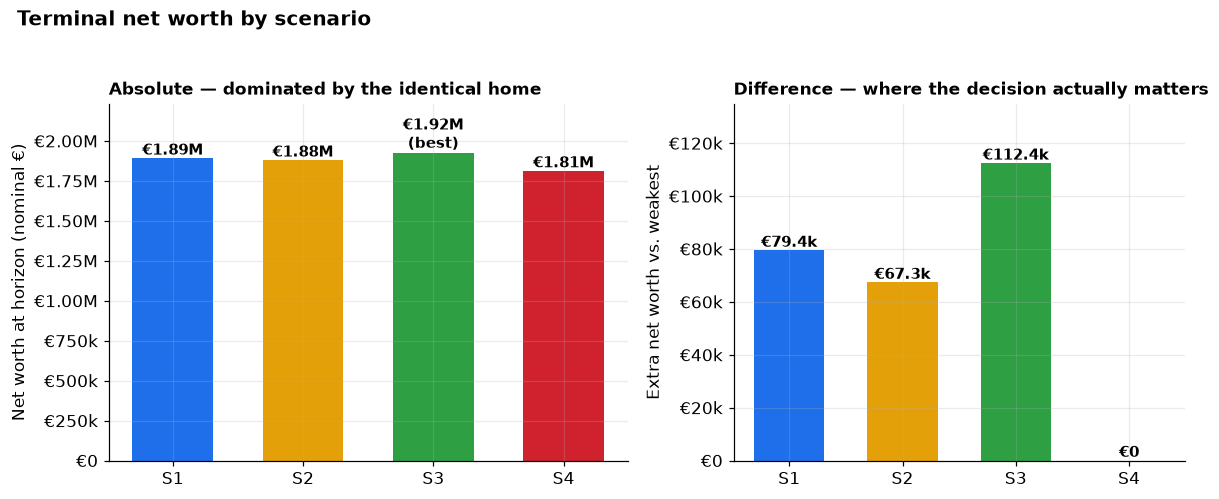
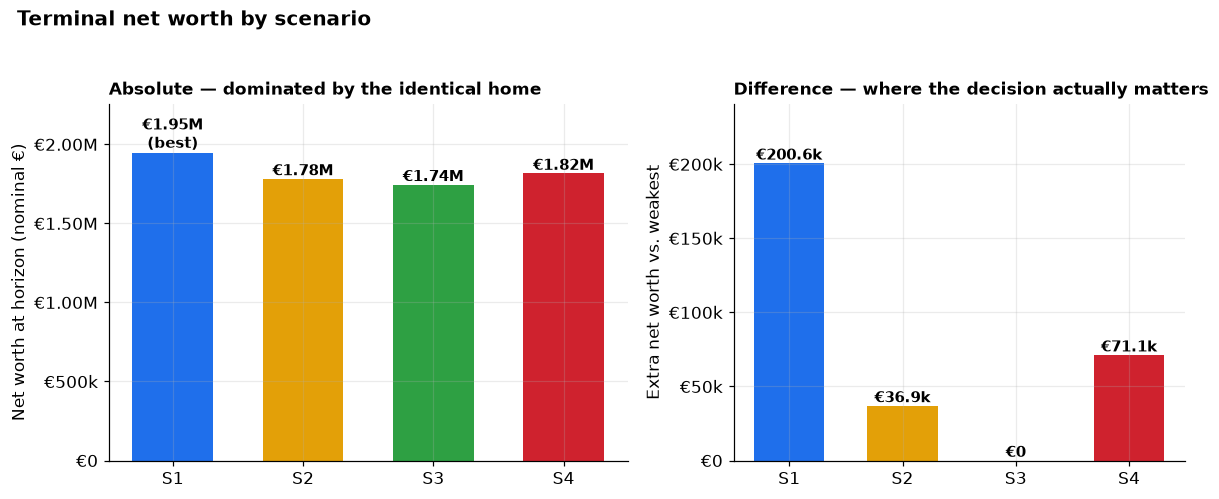
Set base-case investment return to 3% (= appreciation, below mortgage rate)
With investing (3%) now below the 3.75% mortgage, the rational policy pays
down debt, so the near-mortgage-free lijfrente (S1) leads; S3 (rent-and-invest)
falls to last. Regenerate REPORT.md and charts.

diff --git a/config.py b/config.py
@@ -94,7 +94,7 @@ class Assumptions:
     # ------------------------------------------------------------------ #
     #  MARKET RETURNS (the two biggest swing factors)                     #
     # ------------------------------------------------------------------ #
-    investment_return_annual: float = 0.05      # diversified portfolio, nominal
+    investment_return_annual: float = 0.03      # diversified portfolio, nominal
     house_appreciation_annual: float = 0.03     # Belgian long-run nominal
 
     # ------------------------------------------------------------------ #

diff --git a/REPORT.md b/REPORT.md
@@ -1,6 +1,6 @@
 # Buy, rent, or lijfrente? A four-scenario comparison
 
-*Personal-finance decision analysis · prepared 11 Jul 2026 · horizon 30 years · all figures in EUR · base case: 5% investing vs 3% appreciation*
+*Personal-finance decision analysis · prepared 11 Jul 2026 · horizon 30 years · all figures in EUR · base case: 3% investing vs 3% appreciation*
 
 **Scenarios compared**
 
@@ -13,14 +13,14 @@
 
 ## The answer, up front
 
-> Under the base-case assumptions, **Rent, then buy normal (S3)** maximises long-run wealth (€1,924,506 at 30y), and **Buy normal now (S4)** is weakest (€1,812,131).
+> Under the base-case assumptions, **Lijfrente + rent, then move in (S1)** maximises long-run wealth (€1,945,333 at 30y), and **Rent, then buy normal (S3)** is weakest (€1,744,742).
 >
-> Ranking: **S3** (€1,924,506) > **S1** (€1,891,538) > **S2** (€1,879,432) > **S4** (€1,812,131). The gap between best and worst is **€112,375** (~6% of net worth). All four scenarios end owning the **same debt-free home**, so *every difference is opportunity cost, financing and fees — not the house itself.*
+> Ranking: **S1** (€1,945,333) > **S4** (€1,815,872) > **S2** (€1,781,619) > **S3** (€1,744,742). The gap between best and worst is **€200,591** (~11% of net worth). All four scenarios end owning the **same debt-free home**, so *every difference is opportunity cost, financing and fees — not the house itself.*
 
 **Two findings dominate:**
 
-1. **The lijfrente is priced attractively.** Its total outlay (€699,600 = €300,000 up front + €2,220 × 180 months) is *below* the €750,000 market value, is spread over 15 years, and needs almost no mortgage — effectively cheap financing for the very same asset. Conversely, **buying a normal home now (S4)** is the most expensive way to own the identical house: the biggest mortgage and the most interest (€345,776).
-2. **The two leaders — S3 and S1 — are within €32,968 of each other** (~2%), and which one wins comes down to a single comparison: **your investment return (5%) vs. your mortgage rate (3.75%).** With the *rational* financing rule, whenever investing beats the mortgage you borrow the maximum and keep cash invested — which favours the rent-and-invest route (S3); when the mortgage is dearer you pay it down, which favours the near-mortgage-free lijfrente (S1). Here investing beats the mortgage, so **S3 leads**. House appreciation vs. your investment return is the second lever (it decides rent-vs-own timing). See Exhibits 7–8.
+1. **The lijfrente is priced attractively.** Its total outlay (€699,600 = €300,000 up front + €2,220 × 180 months) is *below* the €750,000 market value, is spread over 15 years, and needs almost no mortgage — effectively cheap financing for the very same asset. Conversely, **buying a normal home now (S4)** is the most expensive way to own the identical house: the biggest mortgage and the most interest (€328,148).
+2. **The two leaders — S1 and S4 — are within €129,461 of each other** (~7%), and which one wins comes down to a single comparison: **your investment return (3%) vs. your mortgage rate (3.75%).** With the *rational* financing rule, whenever investing beats the mortgage you borrow the maximum and keep cash invested — which favours the rent-and-invest route (S3); when the mortgage is dearer you pay it down, which favours the near-mortgage-free lijfrente (S1). Here investing trails the mortgage, so **S1 leads**. House appreciation vs. your investment return is the second lever (it decides rent-vs-own timing). See Exhibits 7–8.
 
 ## 1 · How much wealth each path builds
 
@@ -40,25 +40,25 @@ Only factors that **differ** between scenarios are shown, in today's money (pres
 
 *Exhibit 3 — Total cash actually paid out over the horizon, by category (nominal). Excludes down payment and mortgage principal, which are recoverable as home equity. Clearest view of the €2,220/mo annuity, rent and interest burden.*
 
-> **Watch the paradox:** S4 has the *lowest* cash out of pocket (€737,472) yet the *lowest* net worth — because it sinks the most capital into a home appreciating at 3% instead of investments earning 5%. Out-of-pocket cost and wealth are not the same thing; opportunity cost is invisible in a bank statement.
+> **Watch the paradox:** S3 has the *lowest* cash out of pocket (€741,548) yet the *lowest* net worth — because it sinks the most capital into a home appreciating at 3% instead of investments earning 3%. Out-of-pocket cost and wealth are not the same thing; opportunity cost is invisible in a bank statement.
 
 ## 3 · The numbers
 
 Legend: **S1** = Lijfrente + rent, then move in · **S2** = Lijfrente + rent, then sell & buy normal · **S3** = Rent, then buy normal · **S4** = Buy normal now.
 
-| Metric | S1 | S2 | **S3 ✅** | S4 |
+| Metric | **S1 ✅** | S2 | S3 | S4 |
 |---|---|---|---|---|
-| Net worth at horizon (nominal) | €1,891,538 | €1,879,432 | €1,924,506 | €1,812,131 |
-| Net worth in today's money (PV) | €439,442 | €436,630 | €447,101 | €420,994 |
-| Peak monthly housing outflow | €4,940 | €6,991 | €5,313 | €4,583 |
-| Peak cumulative funding gap \* | €146,235 | €17,473 | €0 | €119,672 |
-| Total mortgage interest | €138,310 | €445,638 | €400,849 | €345,776 |
+| Net worth at horizon (nominal) | €1,945,333 | €1,781,619 | €1,744,742 | €1,815,872 |
+| Net worth in today's money (PV) | €803,428 | €735,814 | €720,583 | €749,960 |
+| Peak monthly housing outflow | €4,773 | €4,875 | €4,368 | €4,416 |
+| Peak cumulative funding gap \* | €146,199 | €125,438 | €71,226 | €122,308 |
+| Total mortgage interest | €120,683 | €216,738 | €301,159 | €328,148 |
 | Total rent paid | €84,278 | €84,278 | €84,278 | €0 |
 | Total lijfrente annuity | €399,600 | €399,600 | €0 | €0 |
 | Total transaction/selling fees | €97,500 | €158,298 | €34,778 | €30,000 |
 | Total upkeep & property tax | €321,333 | €321,333 | €321,333 | €361,696 |
 
-✅ = recommended scenario (Rent, then buy normal). Note that lower is better for the cost rows, so the recommended column is *not* the smallest in every row — the whole point is that it makes the best overall trade-off.
+✅ = recommended scenario (Lijfrente + rent, then move in). Note that lower is better for the cost rows, so the recommended column is *not* the smallest in every row — the whole point is that it makes the best overall trade-off.
 
 \* Peak cumulative funding gap = the largest amount by which required spending has exceeded the €3,600/mo budget on a compounding basis, i.e. extra savings/borrowing needed on top of budget. A red flag for *affordability*, not for final wealth.
 
@@ -70,7 +70,7 @@ Legend: **S1** = Lijfrente + rent, then move in · **S2** = Lijfrente + rent, th
 
 ![Exhibit 5 — monthly outflow vs budget](report_images/05_outflow.png)
 
-*Exhibit 5 — Monthly housing outflow vs. the €3,600 budget. A high line is not the same as unaffordable: when the mortgage is cheaper than investing, the rational choice is to keep cash invested and let it cover the gap. S2 looks heavy (small mortgage + the continuing €2,220/mo annuity), but its true strain is small — its funding gap is only €17,473 because the home-1 sale proceeds sit in the portfolio (Exhibit 6) and cover it.*
+*Exhibit 5 — Monthly housing outflow vs. the €3,600 budget. A high line is not the same as unaffordable: when the mortgage is cheaper than investing, the rational choice is to keep cash invested and let it cover the gap. S2 looks heavy (small mortgage + the continuing €2,220/mo annuity), but its true strain is small — its funding gap is only €125,438 because the home-1 sale proceeds sit in the portfolio (Exhibit 6) and cover it.*
 
 ![Exhibit 6 — investment portfolio balance](report_images/06_portfolio_path.png)
 
@@ -90,26 +90,26 @@ The ranking hinges almost entirely on two uncertain numbers: what you earn inves
 
 ## 6 · Risks & qualitative considerations
 
-Ordered best-to-worst on the base-case finances. The financial gaps are modest (~6%) relative to these non-financial factors, which may matter more.
-
-### S3 · Rent, then buy normal
-
-*Rent for 5 years, then buy a normal home.*
-
-- **Lowest strain, most flexible (upside).** Comfortably within budget (peak €5,313/mo, no funding gap). Renting keeps you mobile for 5 years and your €200k stays invested and compounding.
-- **Timing / price risk (high).** You buy in 5 years at an unknown price. If homes appreciate faster than assumed you pay more and this advantage shrinks or reverses (see Exhibit 7).
-- **Rate risk (medium).** The mortgage rate in 5 years is unknown; a materially higher rate would erode the edge.
-- **Rent is 'lost' money (medium).** ≈€84k of rent over 5 years buys no equity — but the invested capital more than compensates while returns exceed appreciation.
+Ordered best-to-worst on the base-case finances. The financial gaps are modest (~11%) relative to these non-financial factors, which may matter more.
 
 ### S1 · Lijfrente + rent, then move in
 
 *Buy the lijfrente home now, rent for 5 years, then move into the lijfrente home and keep it.*
 
-- **Cash-flow strain (high).** For 5 years you pay rent *and* the annuity *and* a mortgage simultaneously — peak outflow €4,940/mo and a cumulative funding gap up to €146,235 that must come from extra savings or income beyond the €3.6k budget.
+- **Cash-flow strain (high).** For 5 years you pay rent *and* the annuity *and* a mortgage simultaneously — peak outflow €4,773/mo and a cumulative funding gap up to €146,199 that must come from extra savings or income beyond the €3.6k budget.
 - **5-year lock-in (high).** You are committed to the lijfrente home and its location years before you can live there. If your life plans change (job, family, city) you are stuck or must sell into scenario 2.
 - **Transaction-tax risk (high).** The home is not your occupied sole dwelling at purchase, so it likely attracts the ~12% registration duty, not the 2% own-home rate. Confirm with a notary — this is ~€75k of swing.
 - **Counterparty / annuity risk (medium).** The construct depends on the seller and contract terms (indexation, what happens on early death, security on the property). Have the deed reviewed.
 - **Upside.** You lock in today's price on a €750k home for a low up-front outlay and spread payments over 15 years — attractive if prices rise or you value certainty of that specific home.
+
+### S4 · Buy normal now
+
+*Buy a normal home now and live in it.*
+
+- **Simplest & most secure (upside).** One transaction, no lock-in games, you own and live in your home immediately with full price certainty and stability.
+- **Opportunity cost is the catch (high).** €200k plus every spare euro is tied up in an asset appreciating at 3% instead of investments at 3%; the biggest mortgage means €328,148 of interest.
+- **Budget is tight long-term (medium).** Mortgage + rising upkeep can exceed the €3.6k budget in later years (funding gap up to €122,308), assuming the budget is not raised with income growth.
+- **Wins if property outperforms.** If appreciation meets or beats your investment return, buying now becomes the strongest option — it has the most exposure to the home.
 
 ### S2 · Lijfrente + rent, then sell & buy normal
 
@@ -120,14 +120,14 @@ Ordered best-to-worst on the base-case finances. The financial gaps are modest (
 - **Only makes sense as a fallback.** This is essentially scenario 1 gone wrong — choose it only if you deliberately want the lijfrente as a 5-year financial bridge and always intended to buy elsewhere.
 - **Speculative CGT risk.** Selling a non-primary home within 5 years can trigger 16.5% capital-gains tax in Belgium. Timing the sale just past 5 years matters.
 
-### S4 · Buy normal now
+### S3 · Rent, then buy normal
 
-*Buy a normal home now and live in it.*
+*Rent for 5 years, then buy a normal home.*
 
-- **Simplest & most secure (upside).** One transaction, no lock-in games, you own and live in your home immediately with full price certainty and stability.
-- **Opportunity cost is the catch (high).** €200k plus every spare euro is tied up in an asset appreciating at 3% instead of investments at 5%; the biggest mortgage means €345,776 of interest.
-- **Budget is tight long-term (medium).** Mortgage + rising upkeep can exceed the €3.6k budget in later years (funding gap up to €119,672), assuming the budget is not raised with income growth.
-- **Wins if property outperforms.** If appreciation meets or beats your investment return, buying now becomes the strongest option — it has the most exposure to the home.
+- **Lowest strain, most flexible (upside).** Comfortably within budget (peak €4,368/mo, no funding gap). Renting keeps you mobile for 5 years and your €200k stays invested and compounding.
+- **Timing / price risk (high).** You buy in 5 years at an unknown price. If homes appreciate faster than assumed you pay more and this advantage shrinks or reverses (see Exhibit 7).
+- **Rate risk (medium).** The mortgage rate in 5 years is unknown; a materially higher rate would erode the edge.
+- **Rent is 'lost' money (medium).** ≈€84k of rent over 5 years buys no equity — but the invested capital more than compensates while returns exceed appreciation.
 
 ## 7 · Key assumptions
 
@@ -149,7 +149,7 @@ All of these live in `config.py` and can be changed centrally; re-run `python ge
 | Buy costs — lijfrente (non-primary) | 13% of value |
 | Selling costs | 3% of price |
 | Upkeep + insurance + property tax | 1% of value / yr (while occupying) |
-| Investment return | 5% / yr (nominal) |
+| Investment return | 3% / yr (nominal) |
 | House appreciation | 3% / yr (nominal) |
 | Comparison horizon | 30 years |
 
